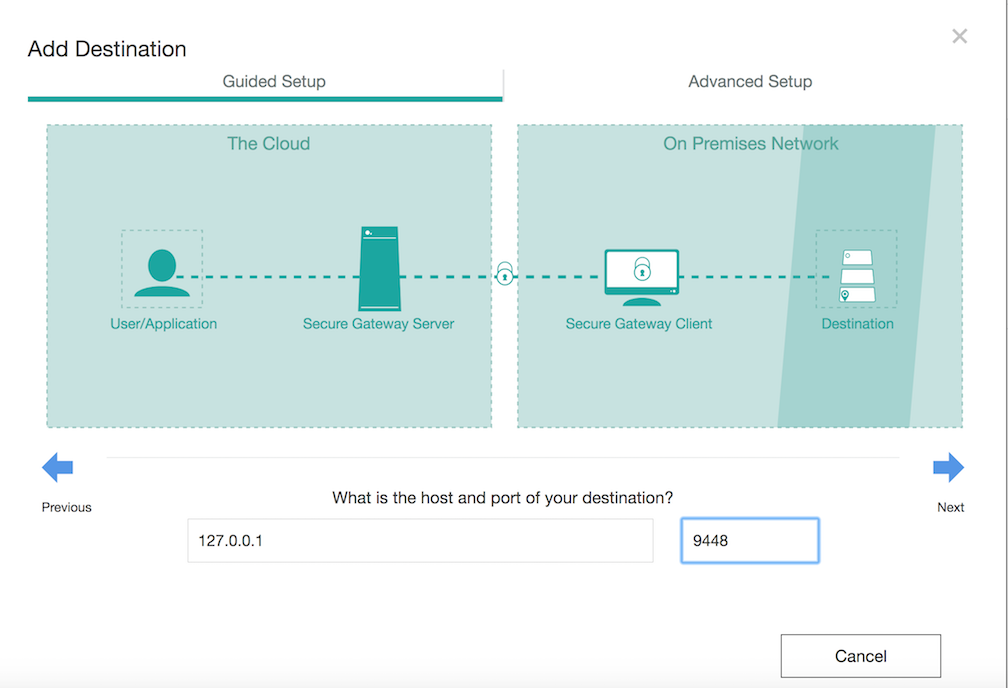
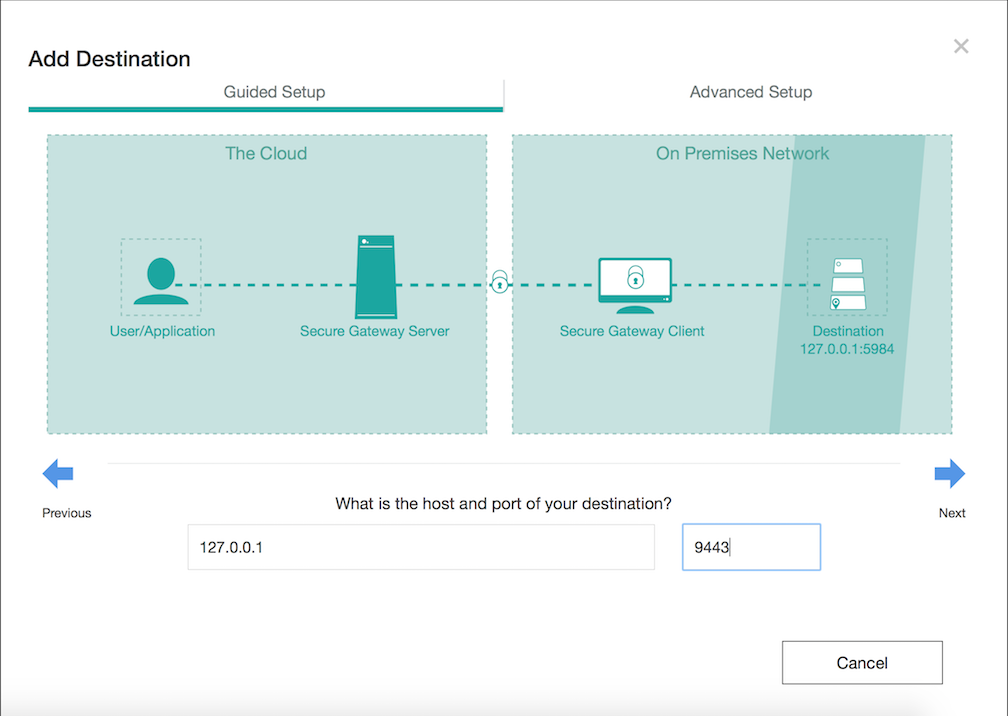
changed port number

diff --git a/flight-booking/src/main/java/microservices/api/sample/DatabaseAccess.java b/flight-booking/src/main/java/microservices/api/sample/DatabaseAccess.java
@@ -29,27 +29,14 @@ public class DatabaseAccess {
 	private static String USERNAME = "username";
 	private static String PASSWORD = "password";
 
+	//Please change your database address to the cloud host if you are hosting your Server on the cloud.
+	private static String DATABASE_CORE_ADDRESS = "http://couchdb:5984/";
 
-	private static String DATABASE_CORE_ADDRESS;
-	private static String AIRLINES_DATABASE;
-	private static String BOOKINGS_DATABASE;
+	private static String AIRLINES_DATABASE = DATABASE_CORE_ADDRESS + "airlines";
+	private static String BOOKINGS_DATABASE = DATABASE_CORE_ADDRESS + "bookings";
 	private static final String ALL_QUERY = "/_all_docs";
 	private static final ObjectMapper mapper = new ObjectMapper();
 
-	
-	static {
-		Properties props = new Properties();
-		try {
-			props.load(DatabaseAccess.class.getClassLoader().getResourceAsStream("config.properties"));
-			DATABASE_CORE_ADDRESS = "http://couchdb:5984/";
-			AIRLINES_DATABASE = DATABASE_CORE_ADDRESS + "airlines";
-			BOOKINGS_DATABASE = DATABASE_CORE_ADDRESS + "bookings";
-			System.out.println("loaded config. Database: " + DATABASE_CORE_ADDRESS);
-		} catch (IOException e) {
-			// TODO Auto-generated catch block
-			e.printStackTrace();
-		}
-	}
 	
 	public static Collection<Airline> getAllAirlines() {
 		JsonNode response = HttpHelper.connect(AIRLINES_DATABASE + ALL_QUERY, "GET", null);

diff --git a/README.md b/README.md
@@ -103,7 +103,7 @@ In this step, we will create a tunnel to expose our localhost APIs to the public
 4. After you open the secure gateway client with your Gateway ID and Security Token, click enter and run the following commands.
 
 	```
-    acl allow 127.0.0.1:9448
+    acl allow 127.0.0.1:9443
     ```
 
 	Now your Gateway is able to access your API Discovery Server.
@@ -112,7 +112,7 @@ In this step, we will create a tunnel to expose our localhost APIs to the public
 
 	![on-premises](images/on-premises.png)
     
-6. Next, put down **127.0.0.1** for your resource hostname and **9448** for your port and click next.
+6. Next, put down **127.0.0.1** for your resource hostname and **9443** for your port and click next.
 
 	![hostname](images/hostname.png)
     
